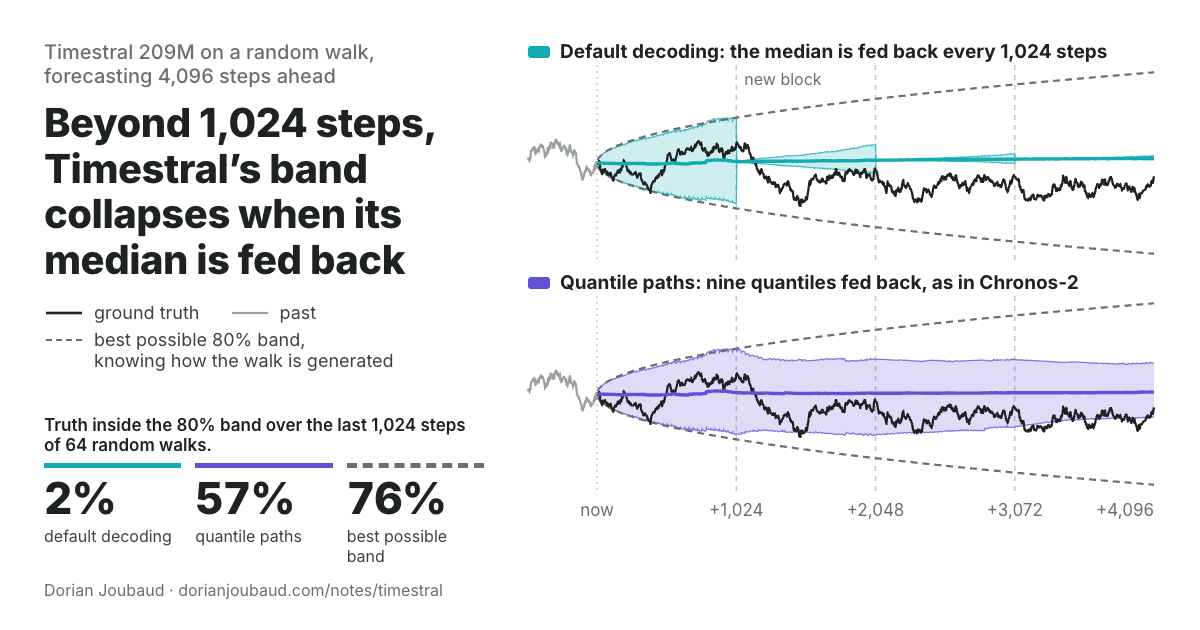
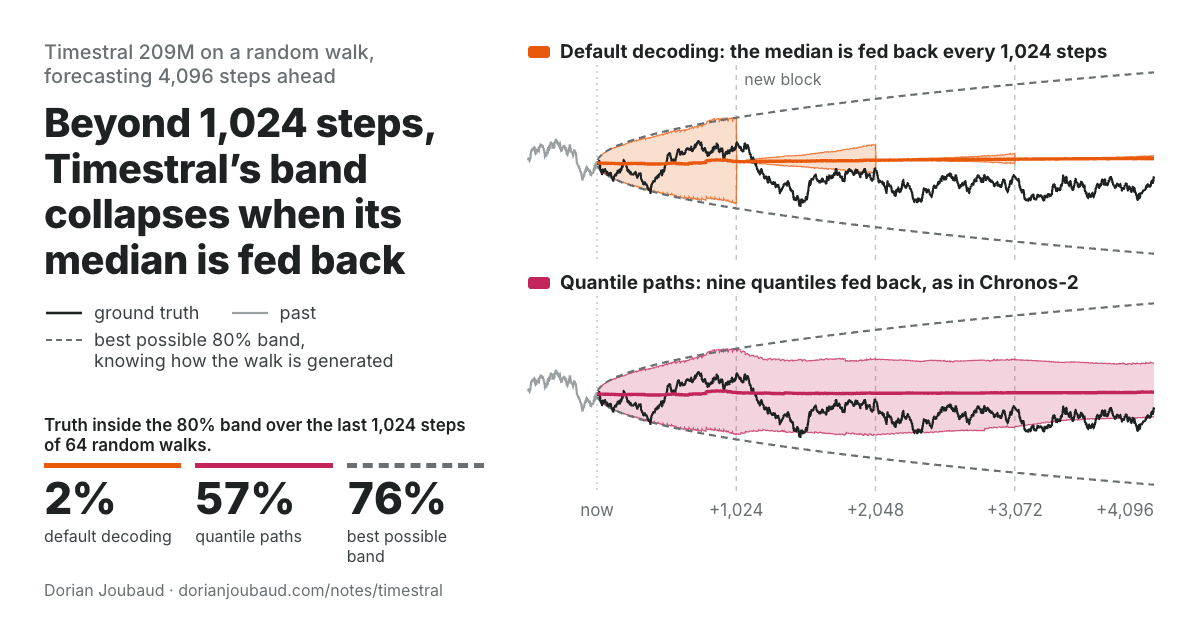
Timestral note: the colours of the LinkedIn post
Mistral orange for Timestral and one hue per family as on the post image (TimesFM blue, Toto green), Chronos-2 in a
darker purple than the post's, which sat too close to TimesFM 3.0's blue, and neutral colours for the other settings
(crimson for Timestral and Chronos-2, amber and brown for Toto). Pairs shown together pass the colour-blind checks of
the dataviz validator. The link preview takes the same colours.

diff --git a/notes/timestral/index.html b/notes/timestral/index.html
@@ -63,9 +63,9 @@
 
     <p class="cards__lede">Each card shows one of our series and links to the part of the note that discusses it.</p>
     <div class="viewer__legend cards__legend">
-        <span><span class="key-model" style="--c:#11ABB0"></span>Timestral 209M</span>
-        <span><span class="key-model" style="--c:#6250d6"></span>Timestral 209M on the logarithm, with the shifted series or through quantile paths</span>
-        <span><span class="key-model" style="--c:#eb6834"></span>Chronos-2</span>
+        <span><span class="key-model" style="--c:#e8590c"></span>Timestral 209M</span>
+        <span><span class="key-model" style="--c:#c2255c"></span>Timestral 209M on the logarithm, with the shifted series or through quantile paths</span>
+        <span><span class="key-model" style="--c:#862e9c"></span>Chronos-2</span>
         <span><span class="key-line" style="border-color:#9a9fa2"></span>past</span>
         <span><span class="key-line" style="border-color:#1f2222"></span>ground truth</span>
         <span><span class="key-dash"></span>best possible 80&nbsp;% band</span>
@@ -319,8 +319,8 @@
             "on":["timestral-209m","chronos-2"]}'></div>
     </figure>
     <div class="viewer__legend cards__legend">
-        <span><span class="key-model" style="--c:#11ABB0"></span>Timestral 209M</span>
-        <span><span class="key-model" style="--c:#eb6834"></span>Chronos-2</span>
+        <span><span class="key-model" style="--c:#e8590c"></span>Timestral 209M</span>
+        <span><span class="key-model" style="--c:#862e9c"></span>Chronos-2</span>
         <span><span class="key-line" style="border-color:#9a9fa2"></span>past</span>
         <span><span class="key-line" style="border-color:#1f2222"></span>ground truth</span>
         <span><span class="key-dash"></span>best possible 80&nbsp;% band</span>

diff --git a/notes/timestral/forecasts.js b/notes/timestral/forecasts.js
@@ -11,8 +11,8 @@
 
     var NS = 'http://www.w3.org/2000/svg';
     var C = {
-        timestral: '#11ABB0', option: '#6250d6', chronos: '#eb6834', timesfm: '#2a78d6', timesfm3: '#173f8a', toto: '#2f9e44',
-        totoBlock: '#c2255c', totoOption: '#e6a700', toto1: '#9c6b30', ruler: '#6a6f72',
+        timestral: '#e8590c', option: '#c2255c', chronos: '#862e9c', timesfm: '#6aa5ec', timesfm3: '#2a78d6', toto: '#1baf7a',
+        totoBlock: '#e6a700', totoOption: '#7c4a03', toto1: '#0b7f4a', ruler: '#6a6f72',
         ink: '#1f2222', past: '#9a9fa2', muted: '#6a6f72', rule: '#ececea', zero: '#c4c8c6', surface: '#ffffff'
     };
     var MODEL = { 'timestral-209m': 'Timestral 209M', 'chronos-2': 'Chronos-2', 'timesfm-2.5': 'TimesFM 2.5',

diff --git a/notes/timestral/figures.js b/notes/timestral/figures.js
@@ -9,8 +9,8 @@
 
     var NS = 'http://www.w3.org/2000/svg';
     var C = {
-        timestral: '#11ABB0', option: '#6250d6', chronos: '#eb6834', timesfm: '#2a78d6', timesfm3: '#173f8a', toto: '#2f9e44',
-        toto1: '#9c6b30', classical: '#8a8f92', ink: '#1f2222', muted: '#6a6f72', rule: '#ececea', surface: '#ffffff'
+        timestral: '#e8590c', option: '#c2255c', chronos: '#862e9c', timesfm: '#6aa5ec', timesfm3: '#2a78d6', toto: '#1baf7a',
+        toto1: '#0b7f4a', classical: '#8a8f92', ink: '#1f2222', muted: '#6a6f72', rule: '#ececea', surface: '#ffffff'
     };
     var NAMES = {
         'timestral-209m': 'Timestral 209M', 'timestral-123m': 'Timestral 123M', 'timestral-28m': 'Timestral 28M',
